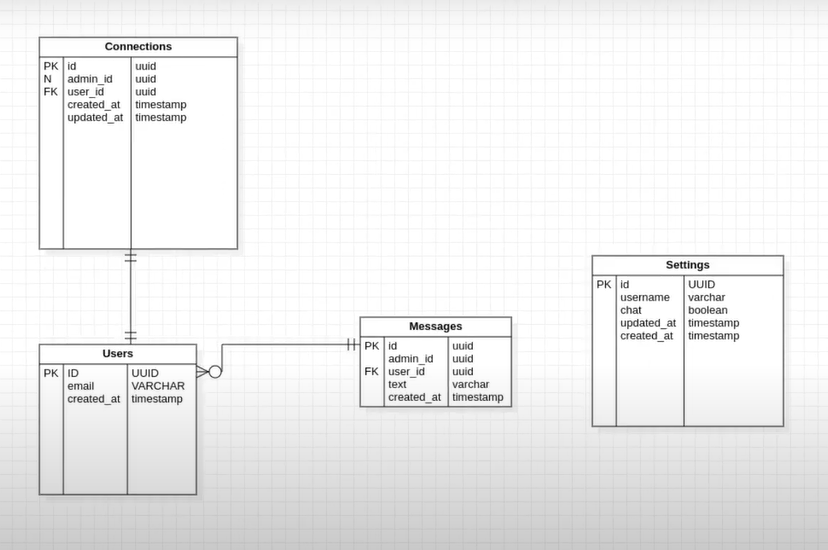
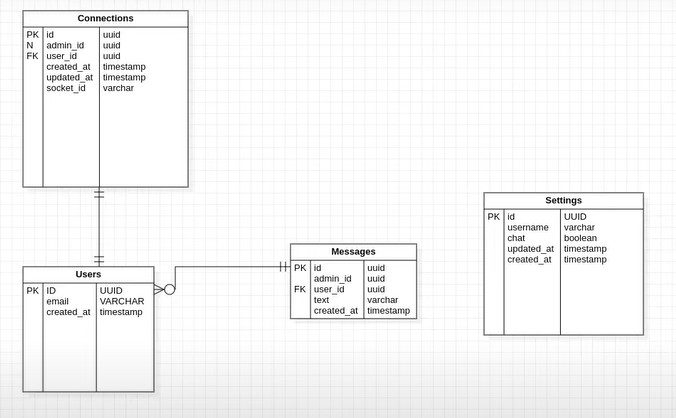
chore: add migration connections

Changed region(s): [[0.0, 0.4354, 1.0, 1.0], [0.0311, 0.0, 0.3107, 0.4976]]

diff --git a/src/database/migrations/1619113692011-CreateConnections.ts b/src/database/migrations/1619113692011-CreateConnections.ts
@@ -1,0 +1,47 @@
+import { MigrationInterface, QueryRunner, Table } from "typeorm";
+
+export default class CreateConnections1619113692011 implements MigrationInterface {
+
+  public async up(queryRunner: QueryRunner): Promise<void> {
+    await queryRunner.createTable(
+      new Table({
+        name: 'connections',
+        columns: [
+          {
+            name: 'id',
+            type: 'uuid',
+            isPrimary: true,
+          },
+          {
+            name: 'admin_id',
+            type: 'uuid',
+            isNullable: true,
+          },
+          {
+            name: 'user_id',
+            type: 'uuid',
+          },
+          {
+            name: 'socket_id',
+            type: 'varchar',
+          },
+          {
+            name: 'created_at',
+            type: 'timestamp',
+            default: 'now()'
+          },
+          {
+            name: 'updated_at',
+            type: 'timestamp',
+            default: 'now()'
+          }
+        ]
+      })
+    );
+  }
+
+  public async down(queryRunner: QueryRunner): Promise<void> {
+    await queryRunner.dropTable('connections');
+  }
+
+}

diff --git a/src/server.ts b/src/server.ts
@@ -1,31 +1,5 @@
-import express from 'express';
-import { createServer } from 'http';
-import { Server, Socket } from 'socket.io';
-import path from 'path';
-
-import './database';
-import { routes } from './routes';
-
-const app = express();
-
-app.use(express.static(path.join(__dirname, '..', 'public')));
-app.set('views', path.join(__dirname, '..', 'public'));
-app.engine('html', require('ejs').renderFile);
-app.set('view engine', 'html');
-
-app.get('/pages/client', (request, response) => {
-  return response.render('html/client.html');
-});
-
-const http = createServer(app);
-const io = new Server(http);
-
-io.on('connection', (socket: Socket) => {
-  console.log('Se conectou', socket.id);
-});
-
-app.use(express.json());
-app.use(routes);
+import { http } from "./http";
+import './websocket/client';
 
 http.listen(3333, () => {
   console.log('Server is running...');

diff --git a/public/js/chat.js b/public/js/chat.js
@@ -1,1 +1,27 @@
-document.querySelector("#start_chat").addEventListener("click", (event) => {});
+document.querySelector("#start_chat").addEventListener("click", (event) => {
+  const socket = io();
+  
+  const chat_help = document.getElementById('chat_help');
+  chat_help.style.display = 'none';
+  
+  const chat_in_support = document.getElementById('chat_in_support');
+  chat_in_support.style.display = 'block';
+
+  const email = document.getElementById('email').value;
+  const text = document.getElementById('txt_help').value;
+
+  socket.on('connect', () =>{
+    const params = {
+      email,
+      text
+    };
+
+    socket.emit('client_first_access', params, (call, err) => {
+      if (err) {
+        console.error(err);
+      } else {
+        console.log(call);
+      }
+    });
+  });
+});

diff --git a/src/http.ts b/src/http.ts
@@ -1,0 +1,30 @@
+import express from 'express';
+import { createServer } from 'http';
+import { Server, Socket } from 'socket.io';
+import path from 'path';
+
+import './database';
+import { routes } from './routes';
+
+const app = express();
+
+app.use(express.static(path.join(__dirname, '..', 'public')));
+app.set('views', path.join(__dirname, '..', 'public'));
+app.engine('html', require('ejs').renderFile);
+app.set('view engine', 'html');
+
+app.get('/pages/client', (request, response) => {
+  return response.render('html/client.html');
+});
+
+const http = createServer(app);
+const io = new Server(http);
+
+io.on('connection', (socket: Socket) => {
+  console.log('Se conectou', socket.id);
+});
+
+app.use(express.json());
+app.use(routes);
+
+export { http, io };

diff --git a/src/websocket/client.ts b/src/websocket/client.ts
@@ -1,0 +1,7 @@
+import { io } from "../http";
+
+io.on('connect', (socket) => {
+  socket.on('client_first_access', params => {
+    console.log(params);
+  });
+});
